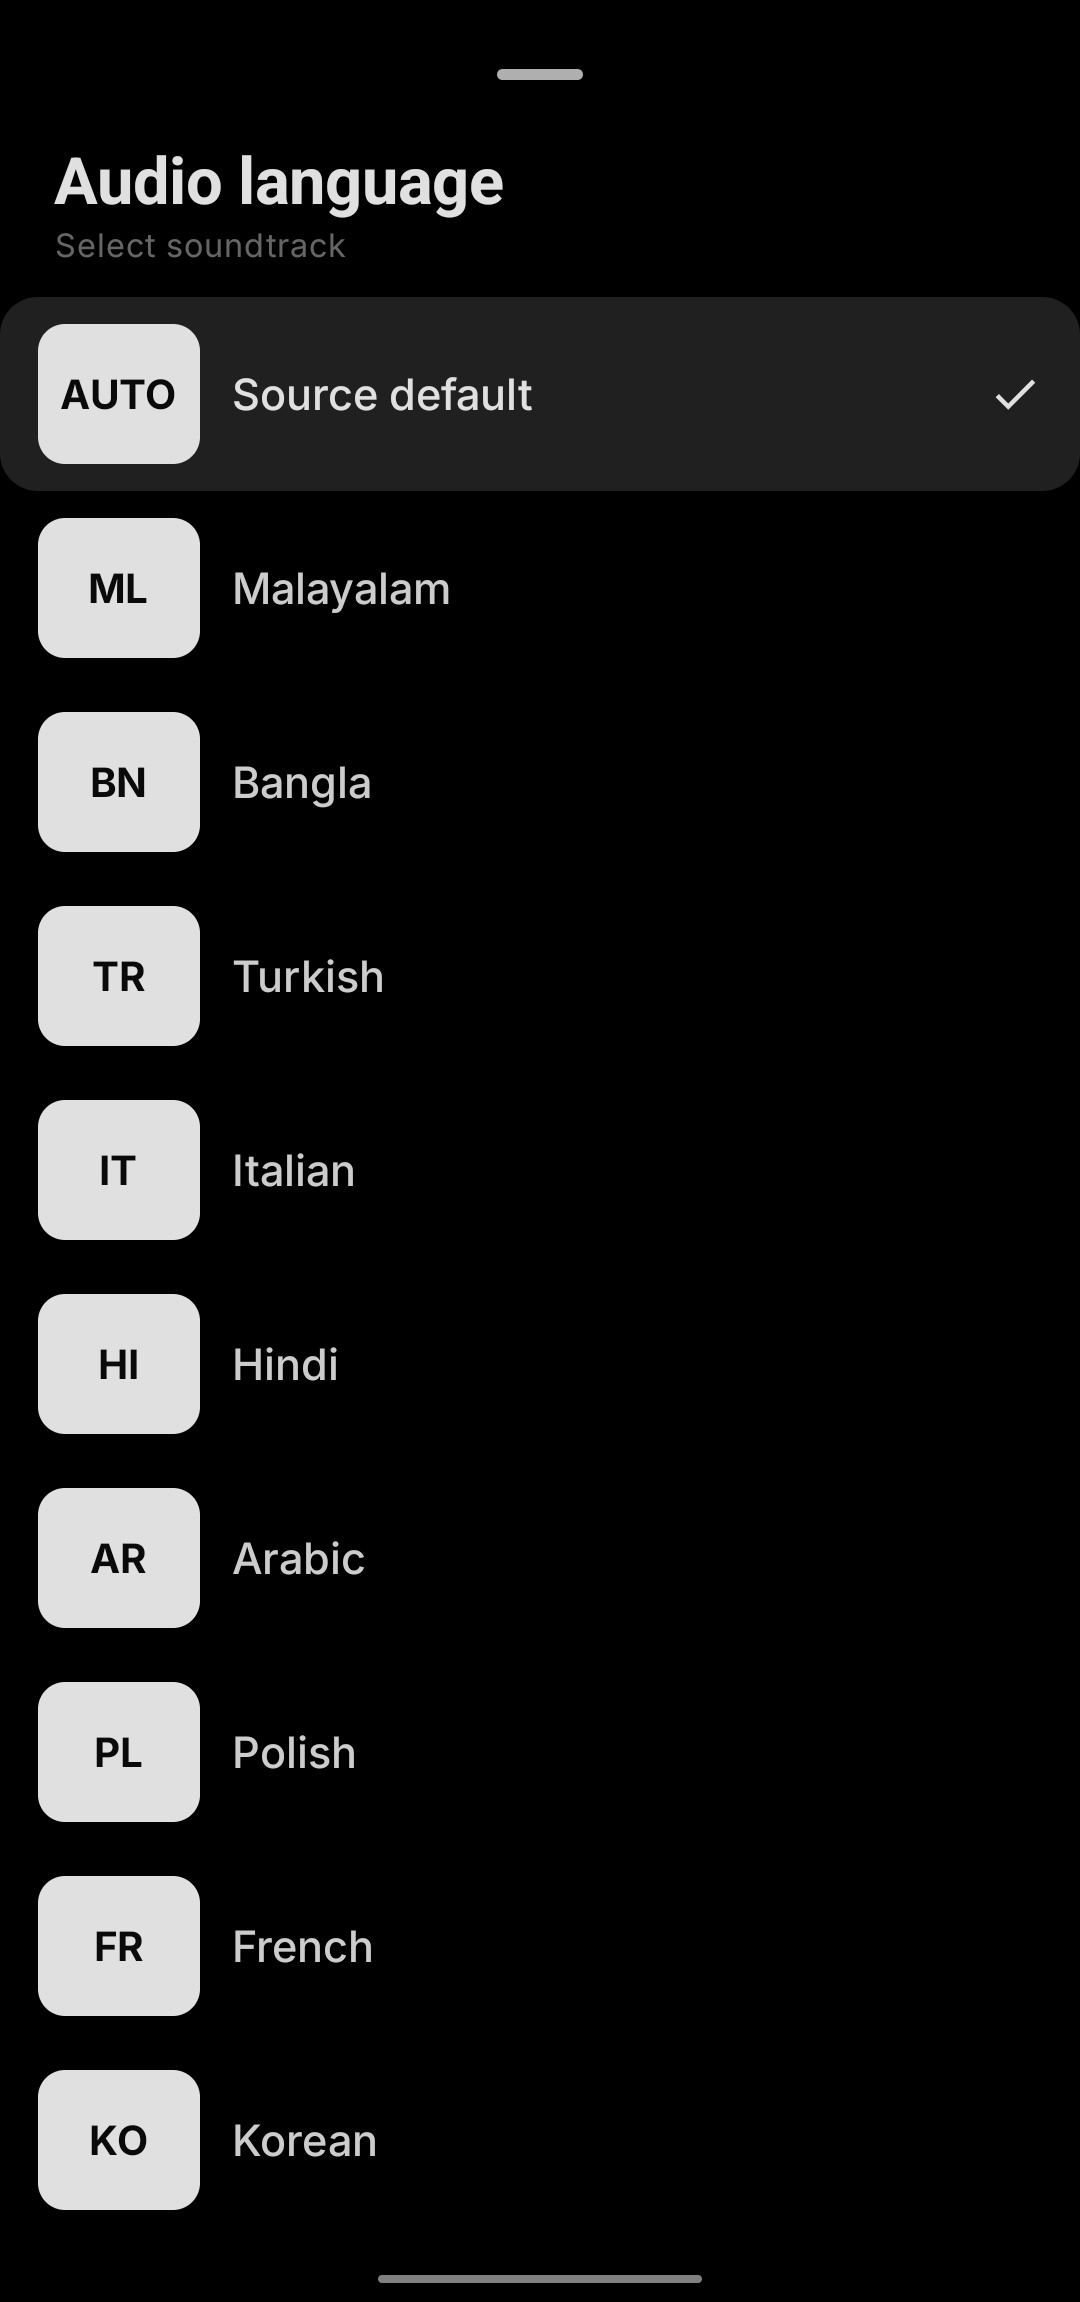
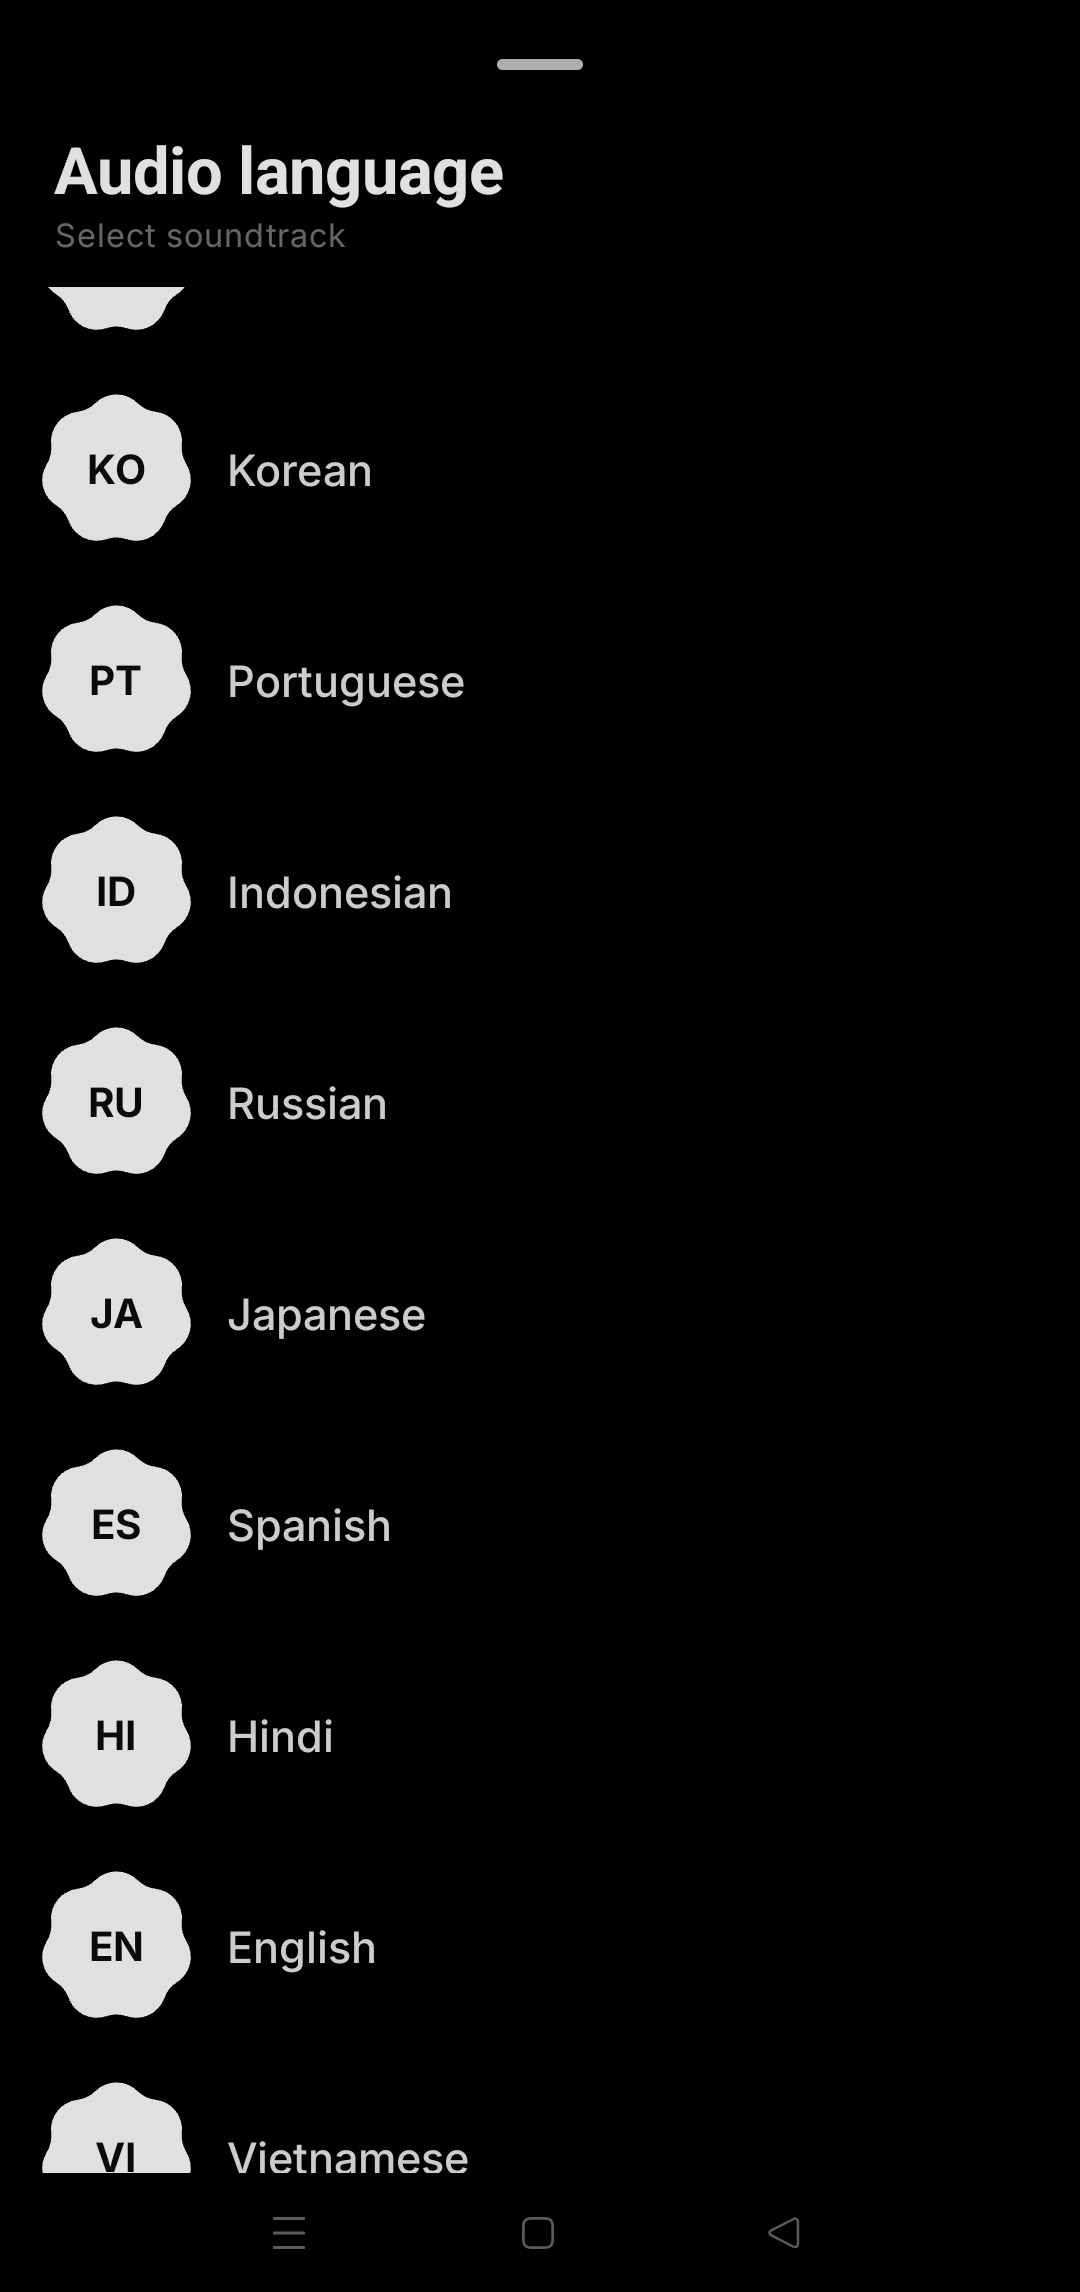
Updated Next Release data

diff --git a/RELEASE-NOTES.md b/RELEASE-NOTES.md
@@ -1,32 +1,39 @@
+### Player
+- **Mini player:** scroll away or start a download and the video keeps playing in a mini player; tap it to open it large.
+- **Pick an audio track:** switch between a video's original audio and its dubs from the player menu.
+- **Playback audio language:** set it in Fetch settings, original by default.
+- **Wavy seek bar:** flows while playing and lies flat on pause or touch.
+- No longer stalls a few seconds into YouTube videos or starts on a dubbed track.
+- Full screen turns to landscape or portrait to match the video.
+
+### Backup and restore
+- **Rebuilt backups:** saved backups with restore, share and delete, a schedule, retention and folder choice.
+- Automatic backup after every app update and on a schedule; old ones are cleaned up.
+- Restore shows a preview first and brings back the app language.
+- Backups now include sign-in tokens and the paused queue.
+- A fresh install offers to restore from a backup.
+
 ### Looks
-- **New glass look:** soft colour light behind see-through screens, sheets and dialogs, in dark and light. Turn it off under More, Appearance.
-- **Pick a glass style:** Forest, Aurora, Ocean, Accent, Wallpaper, Sunset, Nebula or Mono.
-- **Eleven more accents:** with White first in the list, and a Reset appearance row.
-- **Living empty screens:** faint drifting stars that twinkle and brighten at your touch on Home and empty queue tabs.
-- Getting started now lets you pick theme, accent and glass, and follows the theme.
-- A short What's new card after updates, shown once.
+- **New splash animation on app start**
+- **Redesign Search options screen**.
+- **Expressive redesign throughout the app**
+- Update screens redesigned with live progress, stat tiles and copyable device info.
+- Smoother screen transitions with no blank frame between screens.
+- Rounded text fields across the app.
+- Glass is off by default on new installs; existing users keep their look.
+
+### Faster
+- Faster cold start, with home prepared behind the splash.
+- More opens quicker, and cookie and file picks load in the background.
 
 ### Downloads
-- **Select and delete downloads:** pick many rows at once, remove them from the list or delete the files too.
-- **Fewer failed downloads:** if a chosen format is gone, Hazel takes the nearest one at the same quality.
-- Deleted files also leave your gallery.
-- One save location picker everywhere, with free space for internal storage and SD cards.
-
-### Playlist sheet
-- No longer stops responding to taps after swiping a link away.
-- The search field stays above the keyboard.
-- Quality and size labels fit on small screens and large fonts.
+- **Properties sheet:** play, share, copy the name or link, download again or fetch the link again.
+- **Filename template sheet:** presets and tap-to-insert fields.
+- Filename templates no longer break on slashes, stray % signs or long names.
+- Playlist sheet downloads only the ticked links.
+- Instant downloads a video shared from a playlist or Mix on its own, and each video of an X post once.
+- Open folder lists every installed file manager.
 
 ### Everyday
-- **Home screen shortcuts:** long-press the Hazel icon for Search, Downloads, Queue and More.
-- Hazel and Hazel Instant show up as direct share targets.
-- Player shows the time while you drag the seek bar.
-- Settings titles and back buttons stay at the top on long screens.
-- Clear everything in Temp files now clears everything.
-- Clearing search results or history confirms with a short message.
-- Search suggestions ask before turning on.
-- yt-dlp update notifications are off by default.
-
-### Website
-- Smoother scrolling on phones and desktop.
-- New Works with card on the home page.
+- Tap the Hazel logo on Home to open Support screen.
+- Choice dialogs fixed.
